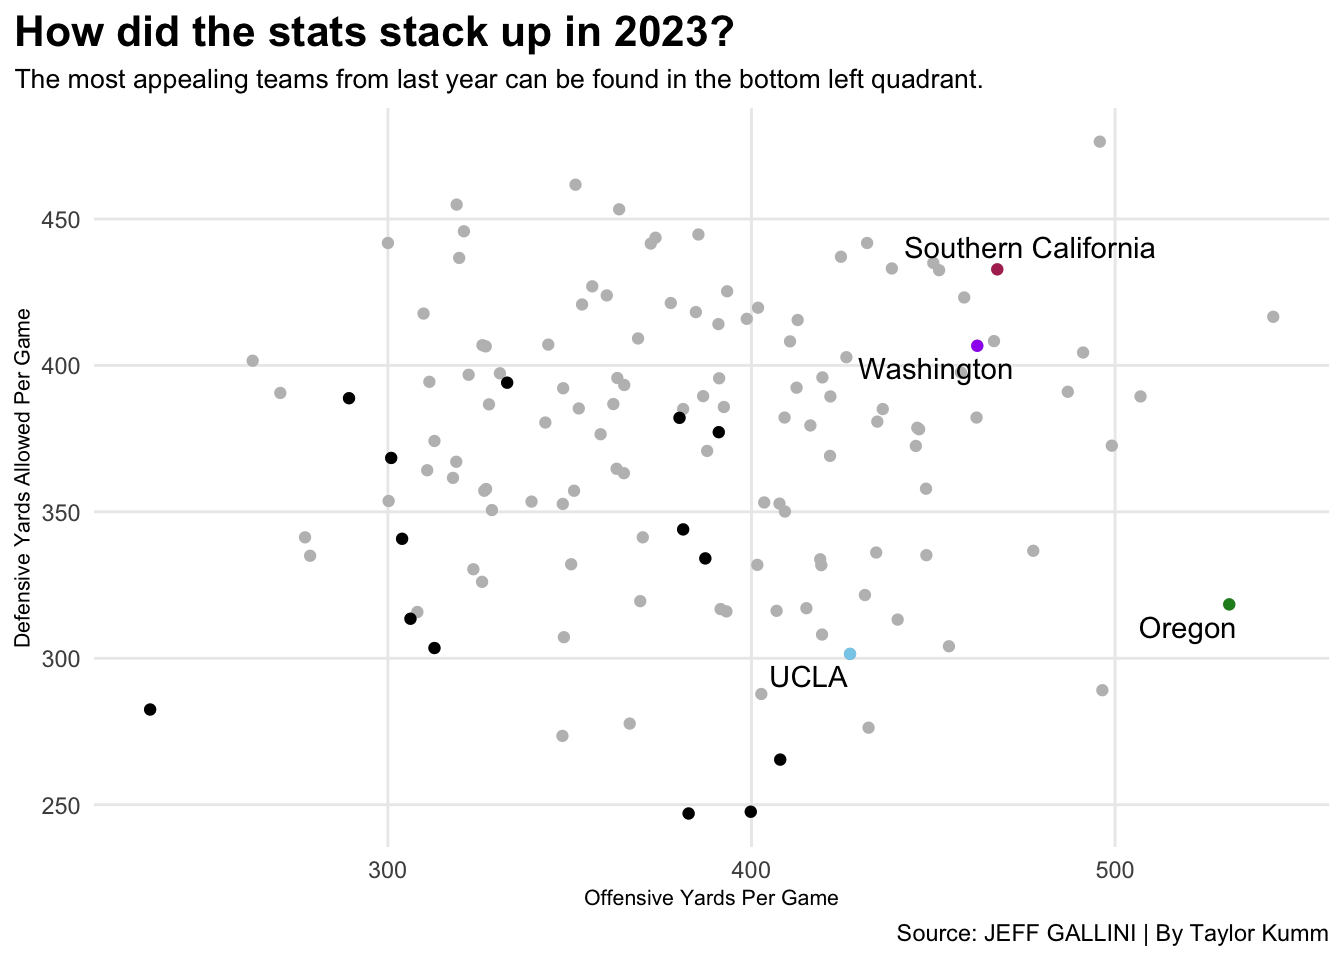
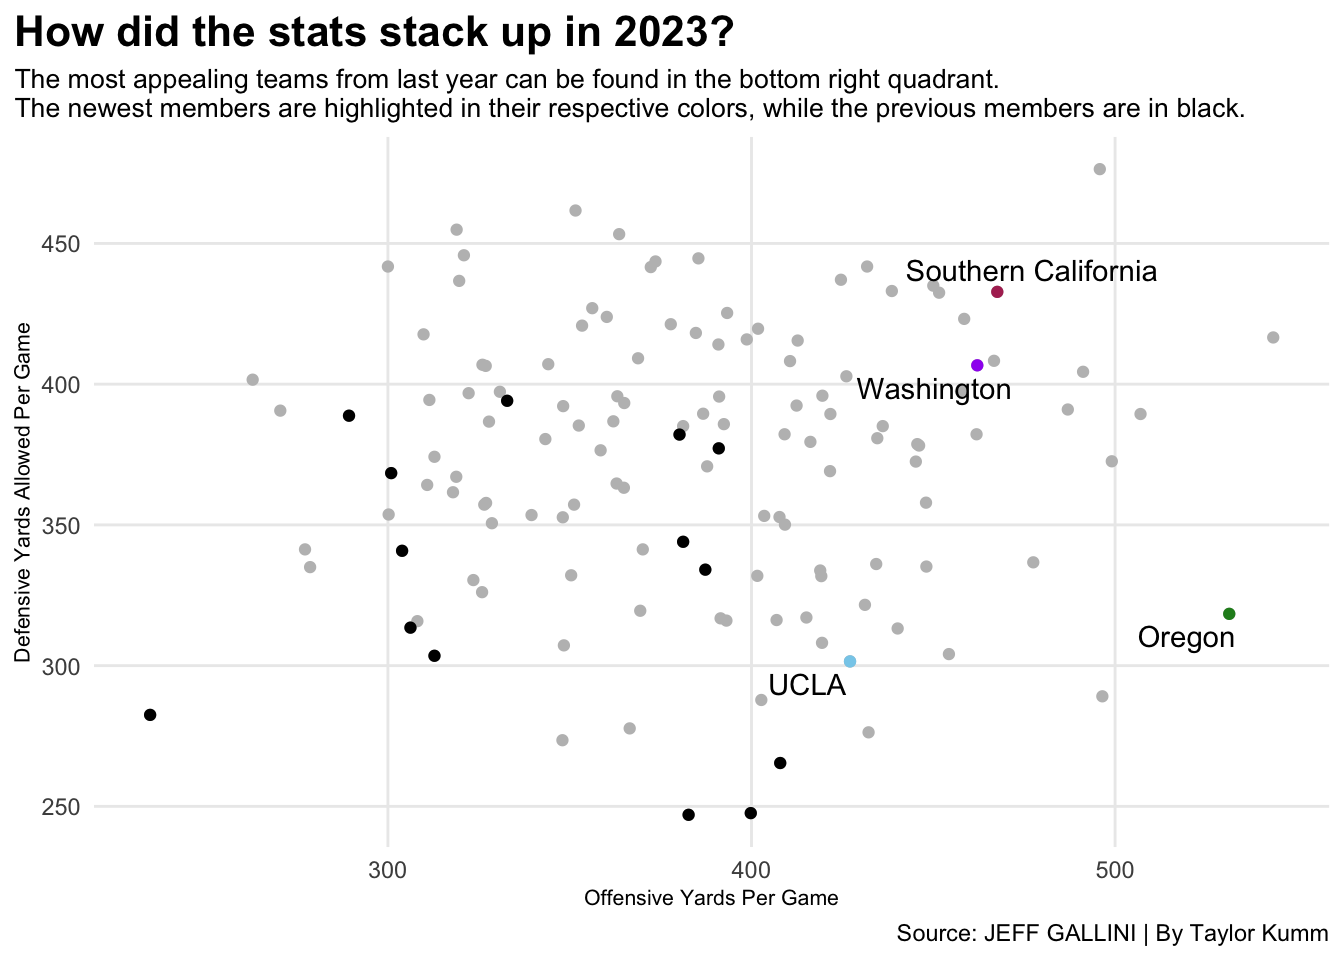
draft4

diff --git a/posts/Introducing-the-Newcomers-to-the-big10/index.html b/posts/Introducing-the-Newcomers-to-the-big10/index.html
@@ -190,7 +190,12 @@ pre > code.sourceCode > span > a:first-child::before { text-decoration: underlin
 
 
 
-<p>INSERT TEXT HERE</p>
+<p>It’s 2024 and whether fans like it or not, conference realignment is here.</p>
+<p>Gone are the days in which conferences were created based on geography and while many argue that it’s sad and disrespectful to the history of college athletics, it’s hard to deny that conference matchups just got a lot more enticing. In no sport is that more true than football.</p>
+<p>The shift in realignment is largely due to massive television deals that hinged on college football viewership and sparked the new “mega conferences” of this coming season.</p>
+<p>One of the most exciting transitions includes the addition of the high-scoring, West Coast teams to the gritty, physical conference that is the Big Ten. Coming this fall, the Big Ten Conference will now consist of 18 teams after the addition of Oregon, Southern California, UCLA, and Washington.</p>
+<p>It’s an…interesting marriage of two historically different landscapes. The four new teams are from the now-deceased PAC-12 Conference which has been known for executing some of the highest scoring, air-raid offenses while also having some sometimes shotty defense. now the Big Ten Conference is basically known for the inverse of that, having stout defenses and pound-rock offense that slowly wears opponents down.</p>
+<p>What commences in 2024 will probably justify those big TV deals with some blockbuster matchups.</p>
 <div class="cell">
 <details class="code-fold">
 <summary>Code</summary>
@@ -232,20 +237,21 @@ pre > code.sourceCode > span > a:first-child::before { text-decoration: underlin
 <span id="cb1-36"><a href="#cb1-36" aria-hidden="true" tabindex="-1"></a>    <span class="at">x=</span><span class="st">"Offensive Yards Per Game"</span>, </span>
 <span id="cb1-37"><a href="#cb1-37" aria-hidden="true" tabindex="-1"></a>    <span class="at">y=</span><span class="st">"Defensive Yards Allowed Per Game"</span>, </span>
 <span id="cb1-38"><a href="#cb1-38" aria-hidden="true" tabindex="-1"></a>    <span class="at">title=</span><span class="st">"How did the stats stack up in 2023?"</span>, </span>
-<span id="cb1-39"><a href="#cb1-39" aria-hidden="true" tabindex="-1"></a>    <span class="at">subtitle=</span><span class="st">"The most appealing teams from last year can be found in the bottom left quadrant."</span>, </span>
-<span id="cb1-40"><a href="#cb1-40" aria-hidden="true" tabindex="-1"></a>    <span class="at">caption=</span><span class="st">"Source: JEFF GALLINI | By Taylor Kumm"</span>) <span class="sc">+</span> </span>
-<span id="cb1-41"><a href="#cb1-41" aria-hidden="true" tabindex="-1"></a>  <span class="fu">theme_minimal</span>() <span class="sc">+</span> </span>
-<span id="cb1-42"><a href="#cb1-42" aria-hidden="true" tabindex="-1"></a>  <span class="fu">theme</span>(</span>
-<span id="cb1-43"><a href="#cb1-43" aria-hidden="true" tabindex="-1"></a>    <span class="at">plot.title =</span> <span class="fu">element_text</span>(<span class="at">size =</span> <span class="dv">16</span>, <span class="at">face =</span> <span class="st">"bold"</span>),</span>
-<span id="cb1-44"><a href="#cb1-44" aria-hidden="true" tabindex="-1"></a>    <span class="at">axis.title =</span> <span class="fu">element_text</span>(<span class="at">size =</span> <span class="dv">8</span>), </span>
-<span id="cb1-45"><a href="#cb1-45" aria-hidden="true" tabindex="-1"></a>    <span class="at">plot.subtitle =</span> <span class="fu">element_text</span>(<span class="at">size=</span><span class="dv">10</span>), </span>
-<span id="cb1-46"><a href="#cb1-46" aria-hidden="true" tabindex="-1"></a>    <span class="at">panel.grid.minor =</span> <span class="fu">element_blank</span>(),</span>
-<span id="cb1-47"><a href="#cb1-47" aria-hidden="true" tabindex="-1"></a>    <span class="at">plot.title.position =</span> <span class="st">"plot"</span></span>
-<span id="cb1-48"><a href="#cb1-48" aria-hidden="true" tabindex="-1"></a>    ) <span class="sc">+</span></span>
-<span id="cb1-49"><a href="#cb1-49" aria-hidden="true" tabindex="-1"></a>  <span class="fu">geom_text_repel</span>(<span class="at">data=</span>oregon, <span class="fu">aes</span>(<span class="at">x=</span><span class="st">`</span><span class="at">Off Yards per Game</span><span class="st">`</span>, <span class="at">y=</span><span class="st">`</span><span class="at">Yards Per Game Allowed</span><span class="st">`</span>, <span class="at">label =</span> School))<span class="sc">+</span></span>
-<span id="cb1-50"><a href="#cb1-50" aria-hidden="true" tabindex="-1"></a>  <span class="fu">geom_text_repel</span>(<span class="at">data=</span>ucla, <span class="fu">aes</span>(<span class="at">x=</span><span class="st">`</span><span class="at">Off Yards per Game</span><span class="st">`</span>, <span class="at">y=</span><span class="st">`</span><span class="at">Yards Per Game Allowed</span><span class="st">`</span>, <span class="at">label =</span> School))<span class="sc">+</span></span>
-<span id="cb1-51"><a href="#cb1-51" aria-hidden="true" tabindex="-1"></a>  <span class="fu">geom_text_repel</span>(<span class="at">data=</span>usc, <span class="fu">aes</span>(<span class="at">x=</span><span class="st">`</span><span class="at">Off Yards per Game</span><span class="st">`</span>, <span class="at">y=</span><span class="st">`</span><span class="at">Yards Per Game Allowed</span><span class="st">`</span>, <span class="at">label =</span> School))<span class="sc">+</span></span>
-<span id="cb1-52"><a href="#cb1-52" aria-hidden="true" tabindex="-1"></a>  <span class="fu">geom_text_repel</span>(<span class="at">data=</span>wash, <span class="fu">aes</span>(<span class="at">x=</span><span class="st">`</span><span class="at">Off Yards per Game</span><span class="st">`</span>, <span class="at">y=</span><span class="st">`</span><span class="at">Yards Per Game Allowed</span><span class="st">`</span>, <span class="at">label =</span> School))</span></code><button title="Copy to Clipboard" class="code-copy-button"><i class="bi"></i></button></pre></div>
+<span id="cb1-39"><a href="#cb1-39" aria-hidden="true" tabindex="-1"></a>    <span class="at">subtitle=</span><span class="st">"The most appealing teams from last year can be found in the bottom right quadrant.</span></span>
+<span id="cb1-40"><a href="#cb1-40" aria-hidden="true" tabindex="-1"></a><span class="st">The newest members are highlighted in their respective colors, while the previous members are in black. "</span>, </span>
+<span id="cb1-41"><a href="#cb1-41" aria-hidden="true" tabindex="-1"></a>    <span class="at">caption=</span><span class="st">"Source: JEFF GALLINI | By Taylor Kumm"</span>) <span class="sc">+</span> </span>
+<span id="cb1-42"><a href="#cb1-42" aria-hidden="true" tabindex="-1"></a>  <span class="fu">theme_minimal</span>() <span class="sc">+</span> </span>
+<span id="cb1-43"><a href="#cb1-43" aria-hidden="true" tabindex="-1"></a>  <span class="fu">theme</span>(</span>
+<span id="cb1-44"><a href="#cb1-44" aria-hidden="true" tabindex="-1"></a>    <span class="at">plot.title =</span> <span class="fu">element_text</span>(<span class="at">size =</span> <span class="dv">16</span>, <span class="at">face =</span> <span class="st">"bold"</span>),</span>
+<span id="cb1-45"><a href="#cb1-45" aria-hidden="true" tabindex="-1"></a>    <span class="at">axis.title =</span> <span class="fu">element_text</span>(<span class="at">size =</span> <span class="dv">8</span>), </span>
+<span id="cb1-46"><a href="#cb1-46" aria-hidden="true" tabindex="-1"></a>    <span class="at">plot.subtitle =</span> <span class="fu">element_text</span>(<span class="at">size=</span><span class="dv">10</span>), </span>
+<span id="cb1-47"><a href="#cb1-47" aria-hidden="true" tabindex="-1"></a>    <span class="at">panel.grid.minor =</span> <span class="fu">element_blank</span>(),</span>
+<span id="cb1-48"><a href="#cb1-48" aria-hidden="true" tabindex="-1"></a>    <span class="at">plot.title.position =</span> <span class="st">"plot"</span></span>
+<span id="cb1-49"><a href="#cb1-49" aria-hidden="true" tabindex="-1"></a>    ) <span class="sc">+</span></span>
+<span id="cb1-50"><a href="#cb1-50" aria-hidden="true" tabindex="-1"></a>  <span class="fu">geom_text_repel</span>(<span class="at">data=</span>oregon, <span class="fu">aes</span>(<span class="at">x=</span><span class="st">`</span><span class="at">Off Yards per Game</span><span class="st">`</span>, <span class="at">y=</span><span class="st">`</span><span class="at">Yards Per Game Allowed</span><span class="st">`</span>, <span class="at">label =</span> School))<span class="sc">+</span></span>
+<span id="cb1-51"><a href="#cb1-51" aria-hidden="true" tabindex="-1"></a>  <span class="fu">geom_text_repel</span>(<span class="at">data=</span>ucla, <span class="fu">aes</span>(<span class="at">x=</span><span class="st">`</span><span class="at">Off Yards per Game</span><span class="st">`</span>, <span class="at">y=</span><span class="st">`</span><span class="at">Yards Per Game Allowed</span><span class="st">`</span>, <span class="at">label =</span> School))<span class="sc">+</span></span>
+<span id="cb1-52"><a href="#cb1-52" aria-hidden="true" tabindex="-1"></a>  <span class="fu">geom_text_repel</span>(<span class="at">data=</span>usc, <span class="fu">aes</span>(<span class="at">x=</span><span class="st">`</span><span class="at">Off Yards per Game</span><span class="st">`</span>, <span class="at">y=</span><span class="st">`</span><span class="at">Yards Per Game Allowed</span><span class="st">`</span>, <span class="at">label =</span> School))<span class="sc">+</span></span>
+<span id="cb1-53"><a href="#cb1-53" aria-hidden="true" tabindex="-1"></a>  <span class="fu">geom_text_repel</span>(<span class="at">data=</span>wash, <span class="fu">aes</span>(<span class="at">x=</span><span class="st">`</span><span class="at">Off Yards per Game</span><span class="st">`</span>, <span class="at">y=</span><span class="st">`</span><span class="at">Yards Per Game Allowed</span><span class="st">`</span>, <span class="at">label =</span> School))</span></code><button title="Copy to Clipboard" class="code-copy-button"><i class="bi"></i></button></pre></div>
 </details>
 <div class="cell-output-display">
 <div>
@@ -255,6 +261,7 @@ pre > code.sourceCode > span > a:first-child::before { text-decoration: underlin
 </div>
 </div>
 </div>
+<p>Immediately it becomes apparent that the newest teams will bring some extra spark on the offensive side of the ball. However, they will probably be giving up more yards as two of the newcomers top the worst defenses. Not to mention that if the new members would be constantly facing less impressive defenses in the Pac-12, their offensive numbers could also take a hit with the move to a new conference.</p>
 <div class="cell">
 <details class="code-fold">
 <summary>Code</summary>
@@ -267,8 +274,8 @@ pre > code.sourceCode > span > a:first-child::before { text-decoration: underlin
 <span id="cb2-7"><a href="#cb2-7" aria-hidden="true" tabindex="-1"></a>    <span class="st">`</span><span class="at">Opponent 3rd Percent</span><span class="st">`</span> <span class="ot">=</span> <span class="st">"Defensive 3rd Down Con."</span></span>
 <span id="cb2-8"><a href="#cb2-8" aria-hidden="true" tabindex="-1"></a>  ) <span class="sc">|&gt;</span></span>
 <span id="cb2-9"><a href="#cb2-9" aria-hidden="true" tabindex="-1"></a>  <span class="fu">tab_header</span>(</span>
-<span id="cb2-10"><a href="#cb2-10" aria-hidden="true" tabindex="-1"></a>    <span class="at">title =</span> <span class="st">"Does Nebraska have a chance to be special this season?"</span>,</span>
-<span id="cb2-11"><a href="#cb2-11" aria-hidden="true" tabindex="-1"></a>    <span class="at">subtitle =</span> <span class="st">"Amy Williams' team is near the middle of a tough conference where it matters most."</span></span>
+<span id="cb2-10"><a href="#cb2-10" aria-hidden="true" tabindex="-1"></a>    <span class="at">title =</span> <span class="st">"How do they compete on Third Downs?"</span>,</span>
+<span id="cb2-11"><a href="#cb2-11" aria-hidden="true" tabindex="-1"></a>    <span class="at">subtitle =</span> <span class="st">"Another reflection of how most of the new teams are opposite in playing styles"</span></span>
 <span id="cb2-12"><a href="#cb2-12" aria-hidden="true" tabindex="-1"></a>  ) <span class="sc">|&gt;</span> <span class="fu">tab_style</span>(</span>
 <span id="cb2-13"><a href="#cb2-13" aria-hidden="true" tabindex="-1"></a>    <span class="at">style =</span> <span class="fu">cell_text</span>(<span class="at">color =</span> <span class="st">"black"</span>, <span class="at">weight =</span> <span class="st">"bold"</span>, <span class="at">align =</span> <span class="st">"left"</span>),</span>
 <span id="cb2-14"><a href="#cb2-14" aria-hidden="true" tabindex="-1"></a>    <span class="at">locations =</span> <span class="fu">cells_title</span>(<span class="st">"title"</span>)</span>
@@ -753,10 +760,10 @@ pre > code.sourceCode > span > a:first-child::before { text-decoration: underlin
 <table class="gt_table table table-sm table-striped small" data-quarto-postprocess="true" data-quarto-disable-processing="false" data-quarto-bootstrap="false">
 <thead>
 <tr class="header gt_heading">
-<th colspan="3" class="gt_heading gt_title gt_font_normal" style="text-align: left; color: #000000; font-weight: bold;">Does Nebraska have a chance to be special this season?</th>
+<th colspan="3" class="gt_heading gt_title gt_font_normal" style="text-align: left; color: #000000; font-weight: bold;">How do they compete on Third Downs?</th>
 </tr>
 <tr class="odd gt_heading">
-<th colspan="3" class="gt_heading gt_subtitle gt_font_normal gt_bottom_border" style="text-align: left; color: #000000;">Amy Williams' team is near the middle of a tough conference where it matters most.</th>
+<th colspan="3" class="gt_heading gt_subtitle gt_font_normal gt_bottom_border" style="text-align: left; color: #000000;">Another reflection of how most of the new teams are opposite in playing styles</th>
 </tr>
 <tr class="header gt_col_headings">
 <th id="School" class="gt_col_heading gt_columns_bottom_border gt_left" data-quarto-table-cell-role="th" style="border-bottom-width: 3px; border-bottom-style: solid; border-bottom-color: #000000; font-size: 12; font-weight: bold" scope="col">School</th>
@@ -867,6 +874,7 @@ pre > code.sourceCode > span > a:first-child::before { text-decoration: underlin
 </div>
 </div>
 </div>
+<p>Of course, it’s easy to say that when the new teams play a good defense things will change. Everyone has heard the phrase, “Defense wins championships”.While there is truth in that, what if the big, physical defenses of the former Big Ten get worn out? One can only bend so much before it breaks, and the newcomers are relentless on third-down conversions. Oregon had an astounding 51% conversion rate.</p>
 <div class="cell">
 <details class="code-fold">
 <summary>Code</summary>
@@ -885,17 +893,18 @@ pre > code.sourceCode > span > a:first-child::before { text-decoration: underlin
 <span id="cb3-13"><a href="#cb3-13" aria-hidden="true" tabindex="-1"></a> <span class="fu">labs</span>(</span>
 <span id="cb3-14"><a href="#cb3-14" aria-hidden="true" tabindex="-1"></a>    <span class="at">x=</span><span class="st">"Team"</span>, </span>
 <span id="cb3-15"><a href="#cb3-15" aria-hidden="true" tabindex="-1"></a>    <span class="at">y=</span><span class="st">"Number of First Downs"</span>, </span>
-<span id="cb3-16"><a href="#cb3-16" aria-hidden="true" tabindex="-1"></a>    <span class="at">title=</span><span class="st">"Make it easy."</span>, </span>
-<span id="cb3-17"><a href="#cb3-17" aria-hidden="true" tabindex="-1"></a>    <span class="at">subtitle=</span><span class="st">"History bodes well for quarterbacks that have limited opportunity for error."</span>, </span>
-<span id="cb3-18"><a href="#cb3-18" aria-hidden="true" tabindex="-1"></a>    <span class="at">caption=</span><span class="st">"Source: NCAA | By Taylor Kumm"</span>) <span class="sc">+</span> </span>
-<span id="cb3-19"><a href="#cb3-19" aria-hidden="true" tabindex="-1"></a>  <span class="fu">theme_minimal</span>() <span class="sc">+</span> </span>
-<span id="cb3-20"><a href="#cb3-20" aria-hidden="true" tabindex="-1"></a>  <span class="fu">theme</span>(</span>
-<span id="cb3-21"><a href="#cb3-21" aria-hidden="true" tabindex="-1"></a>    <span class="at">plot.title =</span> <span class="fu">element_text</span>(<span class="at">size =</span> <span class="dv">16</span>, <span class="at">face =</span> <span class="st">"bold"</span>),</span>
-<span id="cb3-22"><a href="#cb3-22" aria-hidden="true" tabindex="-1"></a>    <span class="at">axis.title =</span> <span class="fu">element_text</span>(<span class="at">size =</span> <span class="dv">8</span>), </span>
-<span id="cb3-23"><a href="#cb3-23" aria-hidden="true" tabindex="-1"></a>    <span class="at">plot.subtitle =</span> <span class="fu">element_text</span>(<span class="at">size=</span><span class="dv">10</span>), </span>
-<span id="cb3-24"><a href="#cb3-24" aria-hidden="true" tabindex="-1"></a>    <span class="at">panel.grid.minor =</span> <span class="fu">element_blank</span>(),</span>
-<span id="cb3-25"><a href="#cb3-25" aria-hidden="true" tabindex="-1"></a>    <span class="at">plot.title.position =</span> <span class="st">"plot"</span></span>
-<span id="cb3-26"><a href="#cb3-26" aria-hidden="true" tabindex="-1"></a>    )</span></code><button title="Copy to Clipboard" class="code-copy-button"><i class="bi"></i></button></pre></div>
+<span id="cb3-16"><a href="#cb3-16" aria-hidden="true" tabindex="-1"></a>    <span class="at">title=</span><span class="st">"How do they start their drives?"</span>, </span>
+<span id="cb3-17"><a href="#cb3-17" aria-hidden="true" tabindex="-1"></a>    <span class="at">subtitle=</span><span class="st">"A run on first down is displayed in &lt;span style = 'color:forestgreen;'&gt;green.&lt;/span&gt;</span></span>
+<span id="cb3-18"><a href="#cb3-18" aria-hidden="true" tabindex="-1"></a><span class="st">A pass on first down is displayed in &lt;span style = 'color:skyblue;'&gt;blue.&lt;/span&gt;"</span>, </span>
+<span id="cb3-19"><a href="#cb3-19" aria-hidden="true" tabindex="-1"></a>    <span class="at">caption=</span><span class="st">"Source: NCAA | By Taylor Kumm"</span>) <span class="sc">+</span> </span>
+<span id="cb3-20"><a href="#cb3-20" aria-hidden="true" tabindex="-1"></a>  <span class="fu">theme_minimal</span>() <span class="sc">+</span> </span>
+<span id="cb3-21"><a href="#cb3-21" aria-hidden="true" tabindex="-1"></a>  <span class="fu">theme</span>(</span>
+<span id="cb3-22"><a href="#cb3-22" aria-hidden="true" tabindex="-1"></a>    <span class="at">plot.title =</span> <span class="fu">element_text</span>(<span class="at">size =</span> <span class="dv">16</span>, <span class="at">face =</span> <span class="st">"bold"</span>),</span>
+<span id="cb3-23"><a href="#cb3-23" aria-hidden="true" tabindex="-1"></a>    <span class="at">axis.title =</span> <span class="fu">element_text</span>(<span class="at">size =</span> <span class="dv">8</span>), </span>
+<span id="cb3-24"><a href="#cb3-24" aria-hidden="true" tabindex="-1"></a>    <span class="at">plot.subtitle =</span> <span class="fu">element_textbox_simple</span>(<span class="at">size=</span><span class="dv">10</span>), </span>
+<span id="cb3-25"><a href="#cb3-25" aria-hidden="true" tabindex="-1"></a>    <span class="at">panel.grid.minor =</span> <span class="fu">element_blank</span>(),</span>
+<span id="cb3-26"><a href="#cb3-26" aria-hidden="true" tabindex="-1"></a>    <span class="at">plot.title.position =</span> <span class="st">"plot"</span></span>
+<span id="cb3-27"><a href="#cb3-27" aria-hidden="true" tabindex="-1"></a>    )</span></code><button title="Copy to Clipboard" class="code-copy-button"><i class="bi"></i></button></pre></div>
 </details>
 <div class="cell-output-display">
 <div>
@@ -905,6 +914,9 @@ pre > code.sourceCode > span > a:first-child::before { text-decoration: underlin
 </div>
 </div>
 </div>
+<p>As previous data alludes to, the newcomers have a significantly larger amount of first downs. Oregon had more than double the amount of first down than Iowa did. However, it doesn’t matter what down it is in a West Coast offense, defenses better be on their toes and there is no sense in packing the box. Rutgers ran on first down about the same as Oregon although they had close to half the amount of first downs.</p>
+<p>Surprisingly while you would expect most all of the long-time members to have heavily skewed bars in favor of running, most of them sit at around 50%</p>
+<p>Regardless, the 2024 Big Ten Conference realignment is like mixing a spicy jalapeno into grandma’s chili recipe—two distinct flavors coming together for an unforgettable taste that has all the elderly nervous. With high-flying West Coast offenses joining the rugged Big Ten, it’s sure to be a season packed with excitement and surprises.</p>
 
 
 

diff --git a/index.html b/index.html
@@ -205,7 +205,7 @@ window.Quarto = {
 
 <div class="quarto-listing quarto-listing-container-default" id="listing-listing">
 <div class="list quarto-listing-default">
-<div class="quarto-post image-right" data-index="0" data-categories="lowercaseword,lowercaseword,lowercaseword" data-listing-date-sort="1714885200000" data-listing-file-modified-sort="1715030728428" data-listing-date-modified-sort="NaN" data-listing-reading-time-sort="4" data-listing-word-count-sort="762">
+<div class="quarto-post image-right" data-index="0" data-categories="lowercaseword,lowercaseword,lowercaseword" data-listing-date-sort="1714885200000" data-listing-file-modified-sort="1715036605645" data-listing-date-modified-sort="NaN" data-listing-reading-time-sort="7" data-listing-word-count-sort="1294">
 <div class="thumbnail">
 <p><a href="./posts/Introducing-the-Newcomers-to-the-big10/index.html" class="no-external"></a></p><a href="./posts/Introducing-the-Newcomers-to-the-big10/index.html" class="no-external">
 <p><img src="./posts/Introducing-the-Newcomers-to-the-big10/image.png" class="thumbnail-image"></p>
@@ -230,7 +230,7 @@ lowercaseword
 </div>
 </div>
 <div class="listing-description">
-<a href="./posts/Introducing-the-Newcomers-to-the-big10/index.html" class="no-external">INSERT TEXT HERE</a>
+<a href="./posts/Introducing-the-Newcomers-to-the-big10/index.html" class="no-external">It’s 2024 and whether fans like it or not, conference realignment is here.</a>
 </div>
 </div>
 <div class="metadata">
